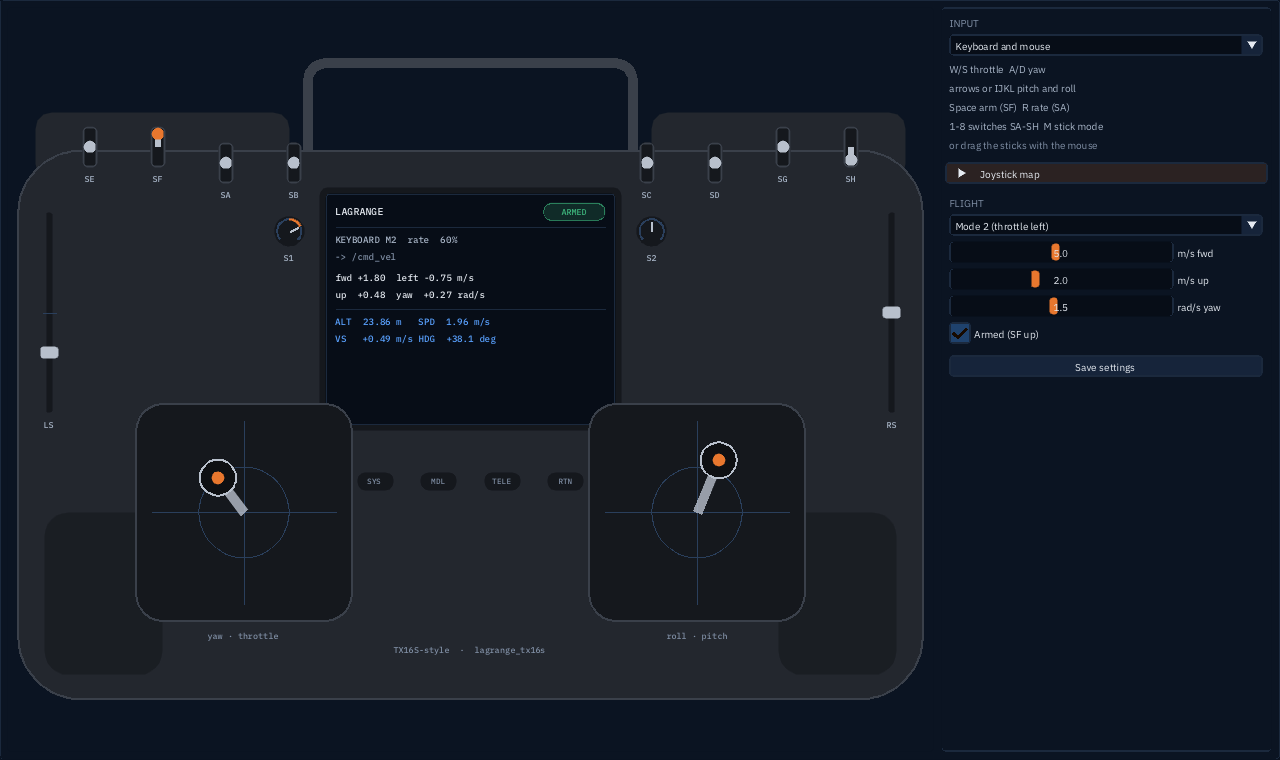
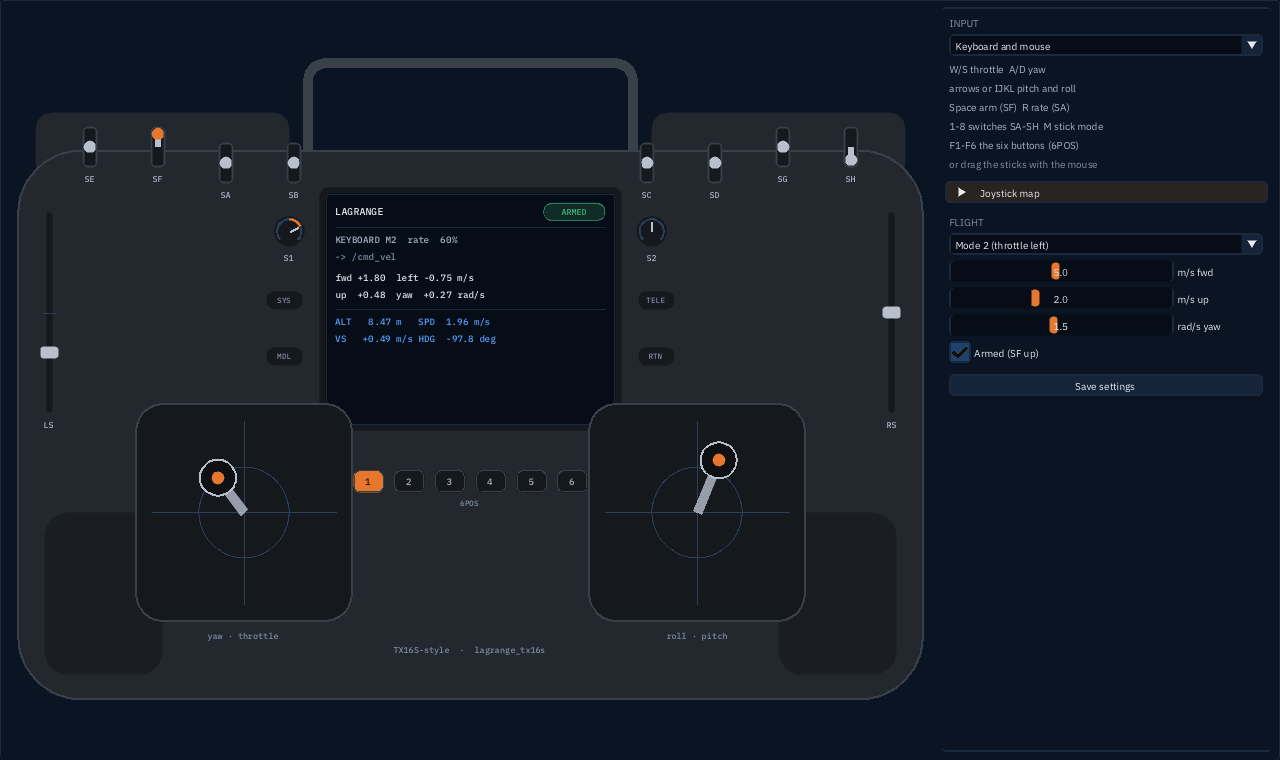
feat(utils): the remote's six buttons under the screen (6POS), by click, F1-F6 or the radio

diff --git a/utils/lagrange_tx16s/src/RemoteUi.cpp b/utils/lagrange_tx16s/src/RemoteUi.cpp
@@ -277,13 +277,34 @@ void drawRemote(Radio& radio, const Mixer& mixer, const UiState& ui, const Telem
         radio[Control::Roll] = s[2];
         radio[mode2 ? Control::Pitch : Control::Throttle] = s[3];
     }
-    // Buttons under the screen, for the look only.
-    const std::array<const char*, 4> buttons{"SYS", "MDL", "TELE", "RTN"};
-    for (std::size_t i = 0; i < buttons.size(); ++i) {
-        const ImVec2 bc(mid.x + (static_cast<float>(i) - 1.5F) * w * 0.07F, bodyA.y + h * 0.53F);
-        dl->AddRectFilled(ImVec2(bc.x - 18, bc.y - 9), ImVec2(bc.x + 18, bc.y + 9), col(kGimbal),
-                          9.0F);
-        centredText(dl, bc, col(c::t3), buttons.at(i), 10.0F);
+    // The six buttons under the screen (6POS): the lit one is the position; a click presses it.
+    const int lit = sixPosButton(radio[Control::SixPos]);
+    for (int k = 0; k < kSixPositions; ++k) {
+        const ImVec2 bc(mid.x + (static_cast<float>(k) - 2.5F) * w * 0.045F, bodyA.y + h * 0.53F);
+        const ImVec2 lo(bc.x - 15, bc.y - 11);
+        const ImVec2 hi(bc.x + 15, bc.y + 11);
+        ImGui::SetCursorScreenPos(lo);
+        const std::string id = "##6pos" + std::to_string(k);
+        ImGui::InvisibleButton(id.c_str(), ImVec2(30, 22));
+        if (ImGui::IsItemClicked()) {
+            Keyboard::press(k, radio);
+        }
+        const bool on = k == lit;
+        dl->AddRectFilled(lo, hi, col(on ? c::accent : kGimbal), 6.0F);
+        dl->AddRect(lo, hi, col(ImGui::IsItemHovered() ? c::accentBorder : kCaseEdge), 6.0F);
+        const std::string label = std::to_string(k + 1);
+        centredText(dl, bc, col(on ? c::onAccent : c::t2), label.c_str(), 12.0F);
+    }
+    centredText(dl, ImVec2(mid.x, bodyA.y + h * 0.53F + 22), col(c::t3), "6POS", 10.0F);
+    // The menu keys beside the screen, under the pots, for the look only.
+    constexpr std::array<std::array<const char*, 2>, 2> kKeys{{{"SYS", "TELE"}, {"MDL", "RTN"}}};
+    for (std::size_t row = 0; row < kKeys.size(); ++row) {
+        const float y = bodyA.y + h * (0.24F + 0.09F * static_cast<float>(row));
+        for (std::size_t side = 0; side < 2; ++side) {
+            const float x = mid.x + (side == 0 ? -1.0F : 1.0F) * w * 0.205F;
+            dl->AddRectFilled(ImVec2(x - 18, y - 9), ImVec2(x + 18, y + 9), col(kGimbal), 9.0F);
+            centredText(dl, ImVec2(x, y), col(c::t3), kKeys.at(row).at(side), 10.0F);
+        }
     }
     centredText(dl, ImVec2(mid.x, bodyB.y - h * 0.08F), col(c::t3),
                 "TX16S-style  ·  lagrange_tx16s", 11.0F);
@@ -318,6 +339,7 @@ void drawPanel(Radio& radio, Mixer& mixer, UiState& ui, const std::optional<Comm
         ImGui::TextColored(c::t2, "arrows or IJKL pitch and roll");
         ImGui::TextColored(c::t2, "Space arm (SF)  R rate (SA)");
         ImGui::TextColored(c::t2, "1-8 switches SA-SH  M stick mode");
+        ImGui::TextColored(c::t2, "F1-F6 the six buttons (6POS)");
         ImGui::TextColored(c::t3, "or drag the sticks with the mouse");
     }
 

diff --git a/utils/lagrange_tx16s/include/lagrange/tx16s/Radio.hpp b/utils/lagrange_tx16s/include/lagrange/tx16s/Radio.hpp
@@ -32,14 +32,23 @@ enum class Control : std::size_t {
     S2,
     LS,  ///< side sliders, −1 to +1
     RS,
+    /// The six buttons under the screen, one six-position switch (EdgeTX's 6POS): the one
+    /// pressed last stays lit, the others go out. −1 to +1 in six steps (button k at −1 + 0.4·k,
+    /// k = 0–5: EdgeTX's −100, −60, −20, 20, 60, 100).
+    SixPos,
     Count,
 };
 inline constexpr std::size_t kControls = static_cast<std::size_t>(Control::Count);
 
 [[nodiscard]] std::string_view name(Control c);
 [[nodiscard]] std::optional<Control> controlNamed(std::string_view name);
-/// The positions a switch has: 3 for SA–SE and SG, 2 for SF and SH, 0 for the others.
+/// The positions a switch has: 3 for SA–SE and SG, 2 for SF and SH, 6 for the six buttons, 0 for
+/// the others.
 [[nodiscard]] int positions(Control c);
+inline constexpr int kSixPositions = 6;
+/// Which of the six buttons (0–5) a 6POS value is, the nearest one; and a button's value.
+[[nodiscard]] int sixPosButton(double value);
+[[nodiscard]] double sixPosValue(int button);
 
 /// The position of every control, each from −1 to +1 (a stick's up and right are +1).
 struct Radio {
@@ -78,8 +87,11 @@ public:
     /// pitch and roll, the left one's throttle and yaw, whatever the mode: the keys name what
     /// they do).
     void step(double dt, Radio& radio) const;
-    /// One step of a switch: −1 → 0 → +1 → −1 for three positions, −1 ↔ +1 for two.
+    /// One step of a switch: −1 → 0 → +1 → −1 for three positions, −1 ↔ +1 for two, the next
+    /// button (after the sixth, the first) for the six buttons.
     static void toggle(Control c, Radio& radio);
+    /// Presses one of the six buttons (0–5).
+    static void press(int button, Radio& radio);
 
 private:
     std::array<bool, static_cast<std::size_t>(Key::Count)> held_{};
@@ -136,7 +148,7 @@ struct Mixer {
     [[nodiscard]] std::array<double, 4> sticks(const Radio& radio) const;
 };
 
-/// The radio's channels as an EdgeTX model sends them: 1–4 AETR, then SA–SH, S1, S2, LS, RS,
+/// The radio's channels as an EdgeTX model sends them: 1–4 AETR, then SA–SH, S1, S2, LS, RS, 6POS,
 /// each −1 to +1 (for sensor_msgs/Joy).
 [[nodiscard]] std::array<double, kControls> channels(const Radio& radio);
 

diff --git a/utils/lagrange_tx16s/src/Radio.cpp b/utils/lagrange_tx16s/src/Radio.cpp
@@ -8,8 +8,8 @@ namespace lagrange::tx16s {
 namespace {
 
 constexpr std::array<std::string_view, kControls> kNames{
-    "roll", "pitch", "throttle", "yaw", "SA", "SB", "SC", "SD",
-    "SE",   "SF",    "SG",       "SH",  "S1", "S2", "LS", "RS",
+    "roll", "pitch", "throttle", "yaw", "SA", "SB", "SC", "SD",      "SE",
+    "SF",   "SG",    "SH",       "S1",  "S2", "LS", "RS", "six_pos",
 };
 constexpr double kAxisFull = 32767.0;  // SDL's axis range is −32768 to 32767
 
@@ -44,9 +44,20 @@ int positions(Control c) {
         case Control::SF:
         case Control::SH:
             return 2;
+        case Control::SixPos:
+            return kSixPositions;
         default:
             return 0;
     }
+}
+
+int sixPosButton(double value) {
+    const int k = static_cast<int>(std::lround((std::clamp(value, -1.0, 1.0) + 1.0) / 0.4));
+    return std::clamp(k, 0, kSixPositions - 1);
+}
+
+double sixPosValue(int button) {
+    return -1.0 + 0.4 * std::clamp(button, 0, kSixPositions - 1);
 }
 
 void Keyboard::step(double dt, Radio& radio) const {
@@ -69,7 +80,13 @@ void Keyboard::toggle(Control c, Radio& radio) {
         v = v < -0.5 ? 0.0 : (v < 0.5 ? 1.0 : -1.0);
     } else if (positions(c) == 2) {
         v = v > 0.0 ? -1.0 : 1.0;
+    } else if (positions(c) == kSixPositions) {
+        v = sixPosValue((sixPosButton(v) + 1) % kSixPositions);
     }
+}
+
+void Keyboard::press(int button, Radio& radio) {
+    radio[Control::SixPos] = sixPosValue(button);
 }
 
 JoystickMap JoystickMap::edgetxClassic() {
@@ -100,6 +117,8 @@ void JoystickMap::apply(const std::vector<int>& axes, Radio& radio) const {
             v = v < -0.33 ? -1.0 : (v > 0.33 ? 1.0 : 0.0);
         } else if (positions(control) == 2) {
             v = v > 0.0 ? 1.0 : -1.0;
+        } else if (positions(control) == kSixPositions) {
+            v = sixPosValue(sixPosButton(v));
         } else if (control <= Control::Yaw && std::abs(v) < deadband) {
             v = 0.0;  // the sticks rest near, not at, the centre
         }

diff --git a/utils/lagrange_tx16s/src/main.cpp b/utils/lagrange_tx16s/src/main.cpp
@@ -100,7 +100,8 @@ public:
                 shared_.radio[control] = -1.0;
             }
         }
-        shared_.radio[Control::SA] = 0.0;  // the middle rate
+        shared_.radio[Control::SA] = 0.0;   // the middle rate
+        Keyboard::press(0, shared_.radio);  // button 1
         if (stamped) {
             stampedOut_ = create_publisher<geometry_msgs::msg::TwistStamped>(topic_, 10);
         } else {
@@ -152,11 +153,17 @@ private:
         for (const double v : channels(radio)) {
             joy.axes.push_back(static_cast<float>(v));
         }
-        // Buttons: each 2- and 3-position switch at its top position.
+        // Buttons: each 2- and 3-position switch at its top position (SA–SH), then the six
+        // buttons, the lit one 1.
         for (std::size_t i = 0; i < kControls; ++i) {
-            if (positions(static_cast<Control>(i)) > 0) {
+            const int n = positions(static_cast<Control>(i));
+            if (n == 2 || n == 3) {
                 joy.buttons.push_back(radio.value.at(i) > 0.5 ? 1 : 0);
             }
+        }
+        const int lit = sixPosButton(radio[Control::SixPos]);
+        for (int k = 0; k < kSixPositions; ++k) {
+            joy.buttons.push_back(k == lit ? 1 : 0);
         }
         joy_->publish(joy);
     }
@@ -411,6 +418,8 @@ int main(int argc, char** argv) {
                     Keyboard::toggle(static_cast<Control>(static_cast<std::size_t>(Control::SA) +
                                                           (s - SDL_SCANCODE_1)),
                                      shared.radio);
+                } else if (s >= SDL_SCANCODE_F1 && s <= SDL_SCANCODE_F6) {
+                    Keyboard::press(static_cast<int>(s - SDL_SCANCODE_F1), shared.radio);
                 } else if (s == SDL_SCANCODE_ESCAPE) {
                     shared.radio[shared.mixer.armSwitch] = -1.0;  // disarm at once
                 }

diff --git a/utils/lagrange_tx16s/test/test_radio.cpp b/utils/lagrange_tx16s/test/test_radio.cpp
@@ -55,6 +55,29 @@ TEST(Keyboard, SwitchesStepThroughTheirPositions) {
     EXPECT_DOUBLE_EQ(radio[Control::S1], 0.4);
 }
 
+TEST(SixPos, OneButtonOfSixIsLit) {
+    Radio radio;
+    for (int k = 0; k < kSixPositions; ++k) {
+        Keyboard::press(k, radio);
+        EXPECT_EQ(sixPosButton(radio[Control::SixPos]), k);
+    }
+    EXPECT_DOUBLE_EQ(sixPosValue(0), -1.0);  // EdgeTX's −100 … +100 in steps of 40
+    EXPECT_DOUBLE_EQ(sixPosValue(5), 1.0);
+    EXPECT_NEAR(sixPosValue(2), -0.2, 1e-12);
+    Keyboard::toggle(Control::SixPos, radio);  // after the sixth, the first
+    EXPECT_EQ(sixPosButton(radio[Control::SixPos]), 0);
+    Keyboard::toggle(Control::SixPos, radio);
+    EXPECT_EQ(sixPosButton(radio[Control::SixPos]), 1);
+    // From a joystick axis: the nearest of the six levels.
+    JoystickMap map;
+    map.controls.at(static_cast<std::size_t>(Control::SixPos)).axis = 0;
+    map.apply({static_cast<int>(0.21 * 32767)}, radio);  // between 3 (−0.2) and 4 (+0.2)
+    EXPECT_EQ(sixPosButton(radio[Control::SixPos]), 3);
+    EXPECT_NEAR(radio[Control::SixPos], 0.2, 1e-12);
+    map.apply({-32768}, radio);
+    EXPECT_EQ(sixPosButton(radio[Control::SixPos]), 0);
+}
+
 TEST(JoystickMap, EdgetxClassicReadsAetrAndTheSwitches) {
     const JoystickMap map = JoystickMap::edgetxClassic();
     Radio radio;

diff --git a/CLAUDE.md b/CLAUDE.md
@@ -311,7 +311,7 @@ verification, not in this repo.
 - Profiles: the server validates profiles from the viewer against `profiles/schema.json` (jsoncons, JSON Schema 2020-12) and what it can run, and applies them by rebuilding the run at t = 0 (domain on/off with substitutes, `rigid_body.dt`, `time.real_time_factor`); other keys are warnings
 - Security (v1.0, docs/design/security.md): `lagrange_server --listen tls://HOST:PORT --tls-cert CERT.pem --tls-key KEY.pem --auth-token-file TOKEN` and `lagrange_viewer --connect tls://HOST:PORT --tls-ca CERT.pem --auth-token-file TOKEN` (or `LAGRANGE_TLS_CA`, `LAGRANGE_AUTH_TOKEN`); listening beyond loopback without a token is refused; fuzz harnesses `proto/framing/fuzz`, `viewer/client/fuzz` (libFuzzer with `-DLAGRANGE_BUILD_FUZZERS=ON` and Clang)
 - Examples: `examples/` holds one ROS 2 package per example (`lagrange_example_*`: your robot, an arm, a power system, lidar, fog, quadcopter, the Holybro X500 V2 by teleop keyboard (needs `fetch_assets holybro_x500_v2`), car, spawning, ros2_control, a C plugin, learning, a trotting quadruped, a camera, a wind tunnel), each running Lagrange through a launch file beside an ordinary node (`viewer:=false once:=true` to stop at its `RESULT:` line); `tools/ci/check_examples.py [NAME...]` and `test_examples` run them all
-- Remote (utils/): `ros2 run lagrange_tx16s lagrange_tx16s` (or `ros2 launch lagrange_tx16s tx16s.launch.py`) opens a TX16S-style radio (SDL3, Dear ImGui with `lagrange_viewer`'s theme header and fonts, `imgui_impl_sdlrenderer3`): a real RadioMaster TX16S over USB (EdgeTX USB Joystick; the map in `JoystickMap::edgetxClassic`, axes 0–7 = AETR, SF arm, SA rate, SB, SC; TODO(verify) on a real radio) or the keyboard (Space arm, W/S A/D throttle and yaw, arrows pitch and roll, R rate); while armed it sends `/cmd_vel` TwistStamped at 50 Hz, always `/tx16s/joy`, and shows `/odom` on its screen; settings saved to `~/.config/lagrange/tx16s.yaml`; `--headless --frames N --screenshot F.bmp --demo`; `test_radio`, `test_joystick` (SDL virtual joystick); the Holybro example's default teleop (`teleop:=tx16s|keyboard|false`)
+- Remote (utils/): `ros2 run lagrange_tx16s lagrange_tx16s` (or `ros2 launch lagrange_tx16s tx16s.launch.py`) opens a TX16S-style radio (SDL3, Dear ImGui with `lagrange_viewer`'s theme header and fonts, `imgui_impl_sdlrenderer3`): a real RadioMaster TX16S over USB (EdgeTX USB Joystick; the map in `JoystickMap::edgetxClassic`, axes 0–7 = AETR, SF arm, SA rate, SB, SC; TODO(verify) on a real radio) or the keyboard (Space arm, W/S A/D throttle and yaw, arrows pitch and roll, R rate, F1–F6 the six buttons, 6POS); while armed it sends `/cmd_vel` TwistStamped at 50 Hz, always `/tx16s/joy`, and shows `/odom` on its screen; settings saved to `~/.config/lagrange/tx16s.yaml`; `--headless --frames N --screenshot F.bmp --demo`; `test_radio`, `test_joystick` (SDL virtual joystick); the Holybro example's default teleop (`teleop:=tx16s|keyboard|false`)
 - Viewer: built by colcon with everything else; run `ros2 run lagrange_viewer lagrange_viewer` (starts on the launcher, whose Start local simulator runs `lagrange_server`; `--connect <endpoint>` goes straight to a server; `--follow M[,DEG]` starts with the follow camera; headless `--record-frames DIR [--record-fps N] --frames N` writes a PNG frame sequence, which is how `docs/imgs/sedan-city.gif` was made)
 - Feature videos: `python3 tools/videos/make_videos.py [CLIP...]` records `docs/videos/*.mp4` (each under 1 MB) from real runs; the viewer's `--camera x,y,z,m,yaw,pitch` frames them and `--scope body/b/pose.x` plots one component
 - Realistic viewport: `Shading::Realistic`, the default on a GPU (`--shading realistic|lit|...`; Tier 0 keeps Lit; grid, axes and sensor overlays then start off: `--overlays grid,axes,sensors`): `viewer/render/src/RealisticPass.cpp`, `gpu/kernels/camera/realistic.slang`, docs/design/viewer.md §4.1; `gpu::RealisticRenderer` (`gpu/raster/src/Realistic.cpp`) draws both the viewport and camera sensors (`--camera-look realistic|simple`, default realistic on a GPU; a software device stays simple; `--camera-season`; depth and instance id do not change)

diff --git a/utils/lagrange_tx16s/README.md b/utils/lagrange_tx16s/README.md
@@ -17,7 +17,7 @@ ros2 launch lagrange_example_holybro teleop.launch.py        # the Holybro, with
 | Topic | Type | When |
 |---|---|---|
 | `/cmd_vel` (`topic`) | `geometry_msgs/TwistStamped` (`stamped:=false`: `Twist`) | 50 times a second while armed; one zero command when disarmed, then nothing |
-| `/tx16s/joy` | `sensor_msgs/Joy` | always, 50 times a second: axes = the 16 controls in the order below, −1 to +1; buttons = each switch at its top position |
+| `/tx16s/joy` | `sensor_msgs/Joy` | always, 50 times a second: axes = the 17 controls (roll, pitch, throttle, yaw, SA–SH, S1, S2, LS, RS, 6POS), −1 to +1; buttons = SA–SH each at its top position, then the six buttons, the lit one 1 |
 
 `/cmd_vel` is what Lagrange's built-in controllers take: forward and left (m/s, in the robot's
 heading), up (m/s) and yaw rate (rad/s, counter-clockwise). A drone run with `--no-demo` waits
@@ -31,6 +31,7 @@ on the ground until it is told to climb.
 | left stick left/right (yaw) | `angular.z`, right turns clockwise |
 | SF | arm: up is armed |
 | SA | rate: down 30 %, middle 60 %, up 100 % of full stick |
+| buttons 1–6 (6POS) | nothing in `/cmd_vel`: one position of six in `/tx16s/joy`, for your own flight modes |
 
 At full stick and full rate: 5 m/s, 2 m/s up and 1.5 rad/s, the limits of Lagrange's
 multicopter controller (`max_horizontal`, `max_vertical`, `max_yaw_rate`). Mode 2 (throttle on
@@ -48,12 +49,13 @@ Click the window so it has the keyboard.
 | `↑` `↓` `←` `→` or `I` `K` `J` `L` | pitch and roll: forward, back, left, right |
 | `R` | rate (SA) |
 | `1` to `8` | switches SA to SH |
+| `F1` to `F6` | the six buttons under the screen (6POS): the one pressed stays lit |
 | `M` | stick mode 1 or 2 |
 | `Esc` | disarm at once |
 
 A held key pushes its stick to the end in about a third of a second; let go and it springs back
 to the centre, the throttle too. The mouse drags the sticks, pots and sliders and clicks the
-switches.
+switches and the six buttons.
 
 ## From a real TX16S
 
@@ -67,7 +69,10 @@ switches.
    | Source | Ail | Ele | Thr | Rud | SF | SA | SB | SC |
 
 3. Start the remote. Its panel shows the radio's name and a bar per axis. Move each stick and
-   switch and check the right bar moves the right way; if one is on another axis, or backwards,
+   switch and check the right bar moves the right way (to use the six buttons from the radio,
+   give the 6POS one of channels 1–8 in EdgeTX's mixer, say 8 instead of SC, and pick that axis
+   for `six_pos`: in classic mode only channels 1–8 are axes, TODO(verify)); if one is on another
+   axis, or backwards,
    open **Joystick map**, pick its axis or tick **inv**, and press **Save settings**.
 
 EdgeTX's "classic" joystick mode puts channels 1 to 8 on the HID axes X, Y, Z, Rx, Ry, Rz,
@@ -90,7 +95,7 @@ file the remote reads at start. Parameters on the command line still win over it
 | `frame_id` | `base_link` | the command's header frame |
 | `odom_topic` | `/odom` | the telemetry |
 | `max_horizontal`, `max_vertical`, `max_yaw_rate` | 5.0, 2.0, 1.5 | at full stick, full rate |
-| `map.<control>.axis`, `map.<control>.invert` | the table above | the joystick map; controls: roll, pitch, throttle, yaw, SA to SH, S1, S2, LS, RS |
+| `map.<control>.axis`, `map.<control>.invert` | the table above | the joystick map; controls: roll, pitch, throttle, yaw, SA to SH, S1, S2, LS, RS, six_pos |
 | `map.deadband` | 0.03 | of full scale, round the sticks' centres |
 
 ## Headless
